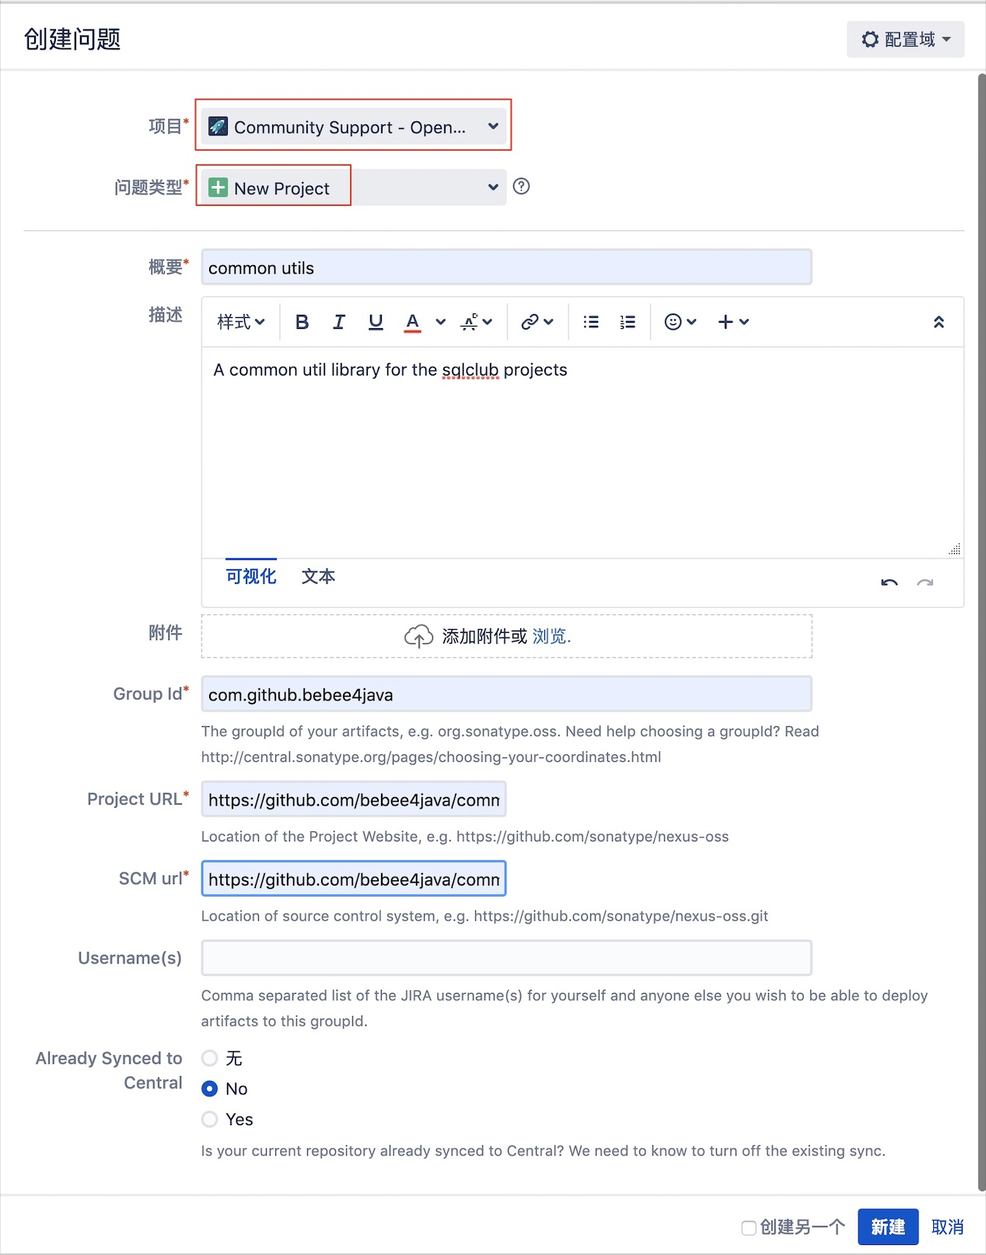
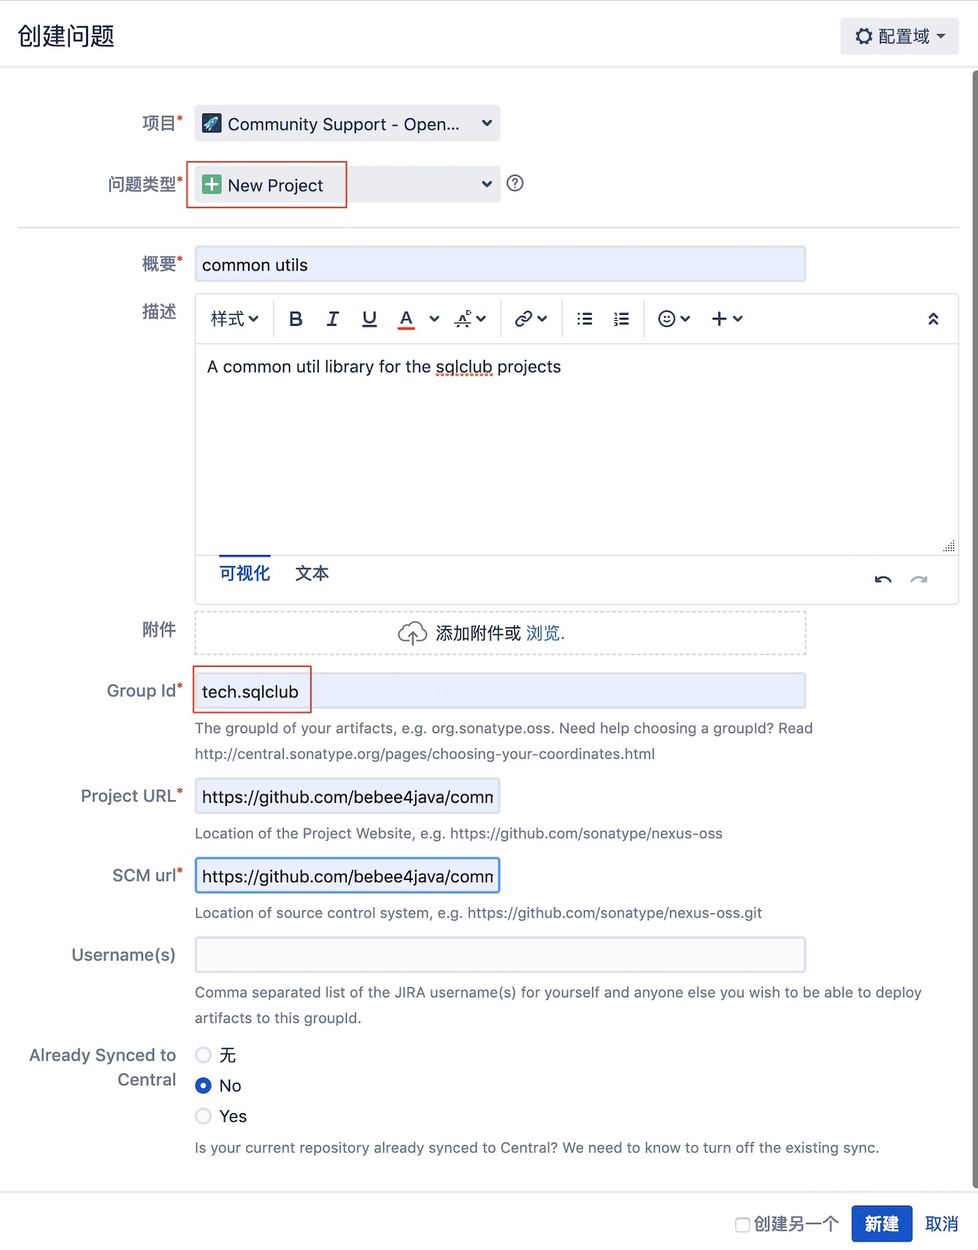
Site updated: 2019-12-30 22:23:57

diff --git a/2019/12/30/发布自己的项目JAR到MAVEN中央仓库/index.html b/2019/12/30/发布自己的项目JAR到MAVEN中央仓库/index.html
@@ -62,13 +62,20 @@
 <meta property="og:image" content="https://blogtech.top/2019/12/30/发布自己的项目JAR到MAVEN中央仓库/signup.png">
 <meta property="og:image" content="https://blogtech.top/2019/12/30/发布自己的项目JAR到MAVEN中央仓库/new_issue.png">
 <meta property="og:image" content="https://blogtech.top/2019/12/30/发布自己的项目JAR到MAVEN中央仓库/issue.png">
+<meta property="og:image" content="https://blogtech.top/2019/12/30/发布自己的项目JAR到MAVEN中央仓库/oss-domain.png">
+<meta property="og:image" content="https://blogtech.top/2019/12/30/发布自己的项目JAR到MAVEN中央仓库/dns.png">
+<meta property="og:image" content="https://blogtech.top/2019/12/30/发布自己的项目JAR到MAVEN中央仓库/domain-ok.png">
+<meta property="og:image" content="https://blogtech.top/2019/12/30/发布自己的项目JAR到MAVEN中央仓库/issue-ok.png">
 <meta property="og:image" content="https://blogtech.top/2019/12/30/发布自己的项目JAR到MAVEN中央仓库/gen-key.png">
 <meta property="og:image" content="https://blogtech.top/2019/12/30/发布自己的项目JAR到MAVEN中央仓库/passphase.png">
 <meta property="og:image" content="https://blogtech.top/2019/12/30/发布自己的项目JAR到MAVEN中央仓库/list_keys.png">
 <meta property="og:image" content="https://blogtech.top/2019/12/30/发布自己的项目JAR到MAVEN中央仓库/send-keys.png">
 <meta property="og:image" content="https://blogtech.top/2019/12/30/发布自己的项目JAR到MAVEN中央仓库/recv-keys-err.png">
 <meta property="og:image" content="https://blogtech.top/2019/12/30/发布自己的项目JAR到MAVEN中央仓库/recv-keys-ok.png">
-<meta property="og:updated_time" content="2019-12-30T09:20:22.676Z">
+<meta property="og:image" content="https://blogtech.top/2019/12/30/发布自己的项目JAR到MAVEN中央仓库/gpg-pass.png">
+<meta property="og:image" content="https://blogtech.top/2019/12/30/发布自己的项目JAR到MAVEN中央仓库/deploy-jar.png">
+<meta property="og:image" content="https://blogtech.top/2019/12/30/发布自己的项目JAR到MAVEN中央仓库/nexus-repo.png">
+<meta property="og:updated_time" content="2019-12-30T14:23:40.350Z">
 <meta name="twitter:card" content="summary">
 <meta name="twitter:title" content="发布自己的项目JAR到MAVEN中央仓库">
 <meta name="twitter:description" content="为什么写这篇文章&amp;emsp;&amp;emsp;maven是java世界最流行的构建工具，做java的程序员应该没少使用maven中央仓库中的各种jar包，方便解决了工作中很多问题，提高了编码效率。程序员界有个编程原则就是：不要重复造轮子，所以工作中时常会抽取出很多实用的工具类、包等等。但是咱们也不能总是只取不予，应该懂得奉献，当你写好了一个十分好用的jar包，想贡献出去给大家使用的时候，应该怎么做呢？方">
@@ -266,7 +273,7 @@
               <span class="post-meta-item-text">发表于</span>
               
 
-              <time title="创建时间：2019-12-30 11:53:50 / 修改时间：17:20:22" itemprop="dateCreated datePublished" datetime="2019-12-30T11:53:50+08:00">2019-12-30</time>
+              <time title="创建时间：2019-12-30 11:53:50 / 修改时间：22:23:40" itemprop="dateCreated datePublished" datetime="2019-12-30T11:53:50+08:00">2019-12-30</time>
             </span>
             <span class="post-meta-item">
               <span class="post-meta-item-icon">
@@ -293,14 +300,14 @@
                 <i class="fa fa-file-word-o"></i>
               </span>
                 <span class="post-meta-item-text">本文字数：</span>
-              <span>5.4k</span>
+              <span>6.3k</span>
             </span>
             <span class="post-meta-item" title="阅读时长">
               <span class="post-meta-item-icon">
                 <i class="fa fa-clock-o"></i>
               </span>
                 <span class="post-meta-item-text">阅读时长 &asymp;</span>
-              <span>5 分钟</span>
+              <span>6 分钟</span>
             </span>
 
         </div>
@@ -322,8 +329,14 @@
 </blockquote>
 <h3 id="登录Jira"><a href="#登录Jira" class="headerlink" title="登录Jira"></a>登录Jira</h3><p>注册完成后登陆: <a href="https://issues.sonatype.org/login.jsp" target="_blank" rel="noopener">https://issues.sonatype.org/login.jsp</a></p>
 <h3 id="创建一个-Issue"><a href="#创建一个-Issue" class="headerlink" title="创建一个 Issue"></a>创建一个 Issue</h3><blockquote>
-<p>通过【Create】按钮创建<br><img src="//blogtech.top/2019/12/30/发布自己的项目JAR到MAVEN中央仓库/new_issue.png" alt="new_issue"><br>Project选择【Community Support - Open Source Project Repository Hosting (OSSRH)】<br>Issue Type: 选择【New Project】<br>Summary和Description: 自己填,注意要用英文<br>Group Id: 这个必须要注意,如果你用的是GitHub,一定要是 com.github.你的github用户名,例如我的项目地址是:<a href="https://github.com/bebee4java/common-utils" target="_blank" rel="noopener">https://github.com/bebee4java/common-utils</a>, 那我的groupId就是com.github.bebee4java, 当然也可以使用 GitHub的Page的域名 io.github.你的github用户名. 如果你有自己的域名和项目地址也可以,官方人员会询问你是否有这个域名的所有权.在你项目的pom里一定要使用这个groupId,最好包路径也使用.<br>Project URL: 是你的项目地址<br>SCM url: 是你的项目git地址<br>Username(s): 可以不用填,这是能辅助你提交项目的合作人的帐号,前提是他也得在这个Jira注册<br>其他使用默认值就行了<br><img src="//blogtech.top/2019/12/30/发布自己的项目JAR到MAVEN中央仓库/issue.png" alt><br>创建好Issue后就等待官方回复吧。这个需要一段时间的等待，如果审批通过的话就会在你申请的邮件箱中收到通过的邮件。</p>
+<p>通过【Create】按钮创建<br><img src="//blogtech.top/2019/12/30/发布自己的项目JAR到MAVEN中央仓库/new_issue.png" alt="new_issue"><br>Project选择【Community Support - Open Source Project Repository Hosting (OSSRH)】<br>Issue Type: 选择【New Project】<br>Summary和Description: 自己填,注意要用英文<br>Group Id: 这个必须要注意,如果你用的是GitHub,一定要是 com.github.你的github用户名,例如我的项目地址是:<a href="https://github.com/bebee4java/common-utils" target="_blank" rel="noopener">https://github.com/bebee4java/common-utils</a>, 那我的groupId就是com.github.bebee4java, 当然也可以使用 GitHub的Page的域名 io.github.你的github用户名. 如果你有自己的域名和项目地址也可以,官方人员会询问你是否有这个域名的所有权.在你项目的pom里一定要使用这个groupId,最好包路径也使用.<br>Project URL: 是你的项目地址<br>SCM url: 是你的项目git地址<br>Username(s): 可以不用填,这是能辅助你提交项目的合作人的帐号,前提是他也得在这个Jira注册<br>其他使用默认值就行了<br><img src="//blogtech.top/2019/12/30/发布自己的项目JAR到MAVEN中央仓库/issue.png" alt><br>创建好Issue后就等待官方回复吧。这个需要一段时间的等待，运气好的话很快就会有工作人员回复你。</p>
 </blockquote>
+<p>这边我使用自己的域名作为项目的Group Id。然后工作人员给我回复了这么一个问题：<br><img src="//blogtech.top/2019/12/30/发布自己的项目JAR到MAVEN中央仓库/oss-domain.png" alt><br>Central OSSRH 问你，这个域名是你的么，怎么证明这个域名是你的呢？他给了你两种解决方法。</p>
+<ol>
+<li>在域名解析中加上一个Txt记录，指向你发布的这个Issues(他称作JIRA ticket:)。（最快）</li>
+<li>设置重定向到您的Github页面（如果尚不存在）</li>
+</ol>
+<p>所以，我选择了第一种方式，在dns里加条txt记录：<br><img src="//blogtech.top/2019/12/30/发布自己的项目JAR到MAVEN中央仓库/dns.png" alt><br>然后你就可以继续等待他的回复了……看到他给你这么回复：<br><img src="//blogtech.top/2019/12/30/发布自己的项目JAR到MAVEN中央仓库/domain-ok.png" alt><br>说明你的问题被解决了：<br><img src="//blogtech.top/2019/12/30/发布自己的项目JAR到MAVEN中央仓库/issue-ok.png" alt><br>审批通过在你申请的邮件箱中也会收到通过的邮件。</p>
 <h3 id="配置gpg加密jar包上传到构件仓库里面"><a href="#配置gpg加密jar包上传到构件仓库里面" class="headerlink" title="配置gpg加密jar包上传到构件仓库里面"></a>配置gpg加密jar包上传到构件仓库里面</h3><ol>
 <li>安装gpg: Mac直接在控制台<code>brew install gpg</code>即可.<blockquote>
 <p>Windows 系统，可以下载 Gpg4win 软件来生成密钥对。<br>下载地址：<a href="https://www.gpg4win.org/download.html" target="_blank" rel="noopener">https://www.gpg4win.org/download.html</a><br>查看是否安装成功: gpg —version</p>
@@ -343,6 +356,13 @@
 <p>注意：distributionManagement-&gt;repository-&gt;id 要和maven setting.xml 中的保持一致。</p>
 </blockquote>
 <h3 id="上传构件到OSS中"><a href="#上传构件到OSS中" class="headerlink" title="上传构件到OSS中"></a>上传构件到OSS中</h3><figure class="highlight bash"><table><tr><td class="gutter"><pre><span class="line">1</span><br></pre></td><td class="code"><pre><span class="line">mvn clean deploy -Prelease-sign-artifacts</span><br></pre></td></tr></table></figure>
+<blockquote>
+<p>如果出现错误：gpg: signing failed: Inappropriate ioctl for device<br>在~/.zshrc 文件里加入export GPG_TTY=$(tty)</p>
+</blockquote>
+<p>打包过程中会让你输入PGP的密码：<br><img src="//blogtech.top/2019/12/30/发布自己的项目JAR到MAVEN中央仓库/gpg-pass.png" alt><br>出现下面上传的信息，说明你已经可以正常将jar包部署到 OSS 中。<br><img src="//blogtech.top/2019/12/30/发布自己的项目JAR到MAVEN中央仓库/deploy-jar.png" alt><br>注意：此时上传的构件并未正式发布到中央仓库中，只是部署到 OSS 中了，别人还不能够使用。</p>
+<h3 id="在OSS中发布构建"><a href="#在OSS中发布构建" class="headerlink" title="在OSS中发布构建"></a>在OSS中发布构建</h3><p>地址：<a href="https://oss.sonatype.org/#stagingRepositories" target="_blank" rel="noopener">https://oss.sonatype.org/#stagingRepositories</a> 需要使用之前注册的sonatype账号登录。</p>
+<p>&emsp;&emsp;用你的SonaType的账号密码进行登陆后，点击左边的Staging Repositories然后根据所写的Group Id进行查询。如果在Staging Repositories中查找不到你的项目，但是在<a href="https://oss.sonatype.org/index.html" target="_blank" rel="noopener">Nexus公有库</a>中是可以查找到你的项目的话。那么这个问题可以忽略，因为这个是nexus-staging-maven-plugin插件中autoReleaseAfterClose自动设置为了True，所以就自动给close-&gt;release-&gt;drop三步，相当于自动给你做了。所以等待两个小时就会在中央仓库查找到了。<br><img src="//blogtech.top/2019/12/30/发布自己的项目JAR到MAVEN中央仓库/nexus-repo.png" alt></p>
+<h3 id="通知Sonatype构件已成功发布"><a href="#通知Sonatype构件已成功发布" class="headerlink" title="通知Sonatype构件已成功发布"></a>通知Sonatype构件已成功发布</h3><p>通知Sonatype构件已成功发布，在之前创建的Issue中回复一条<code>The component has been successfully released</code>通知工作人员为需要发布的构件做审批，发布后会关闭该Issue。</p>
 
     </div>
 
@@ -411,7 +431,7 @@
 
       <!--noindex-->
       <div class="post-toc-wrap sidebar-panel">
-          <div class="post-toc motion-element"><ol class="nav"><li class="nav-item nav-level-2"><a class="nav-link" href="#为什么写这篇文章"><span class="nav-number">1.</span> <span class="nav-text">为什么写这篇文章</span></a></li><li class="nav-item nav-level-2"><a class="nav-link" href="#发布到中央仓库的好处"><span class="nav-number">2.</span> <span class="nav-text">发布到中央仓库的好处</span></a></li><li class="nav-item nav-level-2"><a class="nav-link" href="#发布流程"><span class="nav-number">3.</span> <span class="nav-text">发布流程</span></a><ol class="nav-child"><li class="nav-item nav-level-3"><a class="nav-link" href="#注册-sonatype的Jira帐号"><span class="nav-number">3.1.</span> <span class="nav-text">注册 sonatype的Jira帐号</span></a></li><li class="nav-item nav-level-3"><a class="nav-link" href="#登录Jira"><span class="nav-number">3.2.</span> <span class="nav-text">登录Jira</span></a></li><li class="nav-item nav-level-3"><a class="nav-link" href="#创建一个-Issue"><span class="nav-number">3.3.</span> <span class="nav-text">创建一个 Issue</span></a></li><li class="nav-item nav-level-3"><a class="nav-link" href="#配置gpg加密jar包上传到构件仓库里面"><span class="nav-number">3.4.</span> <span class="nav-text">配置gpg加密jar包上传到构件仓库里面</span></a></li><li class="nav-item nav-level-3"><a class="nav-link" href="#配置maven-setting-xml"><span class="nav-number">3.5.</span> <span class="nav-text">配置maven setting.xml</span></a></li><li class="nav-item nav-level-3"><a class="nav-link" href="#配置项目pom-xml"><span class="nav-number">3.6.</span> <span class="nav-text">配置项目pom.xml</span></a></li><li class="nav-item nav-level-3"><a class="nav-link" href="#上传构件到OSS中"><span class="nav-number">3.7.</span> <span class="nav-text">上传构件到OSS中</span></a></li></ol></li></ol></div>
+          <div class="post-toc motion-element"><ol class="nav"><li class="nav-item nav-level-2"><a class="nav-link" href="#为什么写这篇文章"><span class="nav-number">1.</span> <span class="nav-text">为什么写这篇文章</span></a></li><li class="nav-item nav-level-2"><a class="nav-link" href="#发布到中央仓库的好处"><span class="nav-number">2.</span> <span class="nav-text">发布到中央仓库的好处</span></a></li><li class="nav-item nav-level-2"><a class="nav-link" href="#发布流程"><span class="nav-number">3.</span> <span class="nav-text">发布流程</span></a><ol class="nav-child"><li class="nav-item nav-level-3"><a class="nav-link" href="#注册-sonatype的Jira帐号"><span class="nav-number">3.1.</span> <span class="nav-text">注册 sonatype的Jira帐号</span></a></li><li class="nav-item nav-level-3"><a class="nav-link" href="#登录Jira"><span class="nav-number">3.2.</span> <span class="nav-text">登录Jira</span></a></li><li class="nav-item nav-level-3"><a class="nav-link" href="#创建一个-Issue"><span class="nav-number">3.3.</span> <span class="nav-text">创建一个 Issue</span></a></li><li class="nav-item nav-level-3"><a class="nav-link" href="#配置gpg加密jar包上传到构件仓库里面"><span class="nav-number">3.4.</span> <span class="nav-text">配置gpg加密jar包上传到构件仓库里面</span></a></li><li class="nav-item nav-level-3"><a class="nav-link" href="#配置maven-setting-xml"><span class="nav-number">3.5.</span> <span class="nav-text">配置maven setting.xml</span></a></li><li class="nav-item nav-level-3"><a class="nav-link" href="#配置项目pom-xml"><span class="nav-number">3.6.</span> <span class="nav-text">配置项目pom.xml</span></a></li><li class="nav-item nav-level-3"><a class="nav-link" href="#上传构件到OSS中"><span class="nav-number">3.7.</span> <span class="nav-text">上传构件到OSS中</span></a></li><li class="nav-item nav-level-3"><a class="nav-link" href="#在OSS中发布构建"><span class="nav-number">3.8.</span> <span class="nav-text">在OSS中发布构建</span></a></li><li class="nav-item nav-level-3"><a class="nav-link" href="#通知Sonatype构件已成功发布"><span class="nav-number">3.9.</span> <span class="nav-text">通知Sonatype构件已成功发布</span></a></li></ol></li></ol></div>
       </div>
       <!--/noindex-->
 
@@ -474,12 +494,12 @@
     <span class="post-meta-item-icon">
       <i class="fa fa-area-chart"></i>
     </span>
-    <span title="站点总字数">22k</span>
+    <span title="站点总字数">23k</span>
     <span class="post-meta-divider">|</span>
     <span class="post-meta-item-icon">
       <i class="fa fa-coffee"></i>
     </span>
-    <span title="站点阅读时长">20 分钟</span>
+    <span title="站点阅读时长">21 分钟</span>
 </div>
   <div class="powered-by">由 <a href="https://hexo.io" class="theme-link" rel="noopener" target="_blank">Hexo</a> 强力驱动 v3.9.0
   </div>

diff --git a/index.html b/index.html
@@ -256,7 +256,7 @@
               <span class="post-meta-item-text">发表于</span>
               
 
-              <time title="创建时间：2019-12-30 11:53:50 / 修改时间：17:20:22" itemprop="dateCreated datePublished" datetime="2019-12-30T11:53:50+08:00">2019-12-30</time>
+              <time title="创建时间：2019-12-30 11:53:50 / 修改时间：22:23:40" itemprop="dateCreated datePublished" datetime="2019-12-30T11:53:50+08:00">2019-12-30</time>
             </span>
             <span class="post-meta-item">
               <span class="post-meta-item-icon">
@@ -276,14 +276,14 @@
                 <i class="fa fa-file-word-o"></i>
               </span>
                 <span class="post-meta-item-text">本文字数：</span>
-              <span>5.4k</span>
+              <span>6.3k</span>
             </span>
             <span class="post-meta-item" title="阅读时长">
               <span class="post-meta-item-icon">
                 <i class="fa fa-clock-o"></i>
               </span>
                 <span class="post-meta-item-text">阅读时长 &asymp;</span>
-              <span>5 分钟</span>
+              <span>6 分钟</span>
             </span>
 
         </div>
@@ -1202,12 +1202,12 @@
     <span class="post-meta-item-icon">
       <i class="fa fa-area-chart"></i>
     </span>
-    <span title="站点总字数">22k</span>
+    <span title="站点总字数">23k</span>
     <span class="post-meta-divider">|</span>
     <span class="post-meta-item-icon">
       <i class="fa fa-coffee"></i>
     </span>
-    <span title="站点阅读时长">20 分钟</span>
+    <span title="站点阅读时长">21 分钟</span>
 </div>
   <div class="powered-by">由 <a href="https://hexo.io" class="theme-link" rel="noopener" target="_blank">Hexo</a> 强力驱动 v3.9.0
   </div>

diff --git a/2019/09/27/hello-world/index.html b/2019/09/27/hello-world/index.html
@@ -426,12 +426,12 @@
     <span class="post-meta-item-icon">
       <i class="fa fa-area-chart"></i>
     </span>
-    <span title="站点总字数">22k</span>
+    <span title="站点总字数">23k</span>
     <span class="post-meta-divider">|</span>
     <span class="post-meta-item-icon">
       <i class="fa fa-coffee"></i>
     </span>
-    <span title="站点阅读时长">20 分钟</span>
+    <span title="站点阅读时长">21 分钟</span>
 </div>
   <div class="powered-by">由 <a href="https://hexo.io" class="theme-link" rel="noopener" target="_blank">Hexo</a> 强力驱动 v3.9.0
   </div>

diff --git a/2019/10/07/docker常用操作及技巧/index.html b/2019/10/07/docker常用操作及技巧/index.html
@@ -547,12 +547,12 @@
     <span class="post-meta-item-icon">
       <i class="fa fa-area-chart"></i>
     </span>
-    <span title="站点总字数">22k</span>
+    <span title="站点总字数">23k</span>
     <span class="post-meta-divider">|</span>
     <span class="post-meta-item-icon">
       <i class="fa fa-coffee"></i>
     </span>
-    <span title="站点阅读时长">20 分钟</span>
+    <span title="站点阅读时长">21 分钟</span>
 </div>
   <div class="powered-by">由 <a href="https://hexo.io" class="theme-link" rel="noopener" target="_blank">Hexo</a> 强力驱动 v3.9.0
   </div>

diff --git a/2019/10/08/docker安装mysql搭建主从/index.html b/2019/10/08/docker安装mysql搭建主从/index.html
@@ -488,12 +488,12 @@
     <span class="post-meta-item-icon">
       <i class="fa fa-area-chart"></i>
     </span>
-    <span title="站点总字数">22k</span>
+    <span title="站点总字数">23k</span>
     <span class="post-meta-divider">|</span>
     <span class="post-meta-item-icon">
       <i class="fa fa-coffee"></i>
     </span>
-    <span title="站点阅读时长">20 分钟</span>
+    <span title="站点阅读时长">21 分钟</span>
 </div>
   <div class="powered-by">由 <a href="https://hexo.io" class="theme-link" rel="noopener" target="_blank">Hexo</a> 强力驱动 v3.9.0
   </div>

diff --git a/2019/10/09/mysql创建用户与授权/index.html b/2019/10/09/mysql创建用户与授权/index.html
@@ -464,12 +464,12 @@
     <span class="post-meta-item-icon">
       <i class="fa fa-area-chart"></i>
     </span>
-    <span title="站点总字数">22k</span>
+    <span title="站点总字数">23k</span>
     <span class="post-meta-divider">|</span>
     <span class="post-meta-item-icon">
       <i class="fa fa-coffee"></i>
     </span>
-    <span title="站点阅读时长">20 分钟</span>
+    <span title="站点阅读时长">21 分钟</span>
 </div>
   <div class="powered-by">由 <a href="https://hexo.io" class="theme-link" rel="noopener" target="_blank">Hexo</a> 强力驱动 v3.9.0
   </div>

diff --git a/2019/10/10/conda使用技巧总结/index.html b/2019/10/10/conda使用技巧总结/index.html
@@ -447,12 +447,12 @@
     <span class="post-meta-item-icon">
       <i class="fa fa-area-chart"></i>
     </span>
-    <span title="站点总字数">22k</span>
+    <span title="站点总字数">23k</span>
     <span class="post-meta-divider">|</span>
     <span class="post-meta-item-icon">
       <i class="fa fa-coffee"></i>
     </span>
-    <span title="站点阅读时长">20 分钟</span>
+    <span title="站点阅读时长">21 分钟</span>
 </div>
   <div class="powered-by">由 <a href="https://hexo.io" class="theme-link" rel="noopener" target="_blank">Hexo</a> 强力驱动 v3.9.0
   </div>

diff --git a/2019/10/11/Java设计模式剖析/index.html b/2019/10/11/Java设计模式剖析/index.html
@@ -494,12 +494,12 @@
     <span class="post-meta-item-icon">
       <i class="fa fa-area-chart"></i>
     </span>
-    <span title="站点总字数">22k</span>
+    <span title="站点总字数">23k</span>
     <span class="post-meta-divider">|</span>
     <span class="post-meta-item-icon">
       <i class="fa fa-coffee"></i>
     </span>
-    <span title="站点阅读时长">20 分钟</span>
+    <span title="站点阅读时长">21 分钟</span>
 </div>
   <div class="powered-by">由 <a href="https://hexo.io" class="theme-link" rel="noopener" target="_blank">Hexo</a> 强力驱动 v3.9.0
   </div>

diff --git a/2019/10/17/Java设计模式-单例模式/index.html b/2019/10/17/Java设计模式-单例模式/index.html
@@ -542,12 +542,12 @@
     <span class="post-meta-item-icon">
       <i class="fa fa-area-chart"></i>
     </span>
-    <span title="站点总字数">22k</span>
+    <span title="站点总字数">23k</span>
     <span class="post-meta-divider">|</span>
     <span class="post-meta-item-icon">
       <i class="fa fa-coffee"></i>
     </span>
-    <span title="站点阅读时长">20 分钟</span>
+    <span title="站点阅读时长">21 分钟</span>
 </div>
   <div class="powered-by">由 <a href="https://hexo.io" class="theme-link" rel="noopener" target="_blank">Hexo</a> 强力驱动 v3.9.0
   </div>

diff --git a/2019/10/22/Java设计模式-策略模式/index.html b/2019/10/22/Java设计模式-策略模式/index.html
@@ -436,12 +436,12 @@
     <span class="post-meta-item-icon">
       <i class="fa fa-area-chart"></i>
     </span>
-    <span title="站点总字数">22k</span>
+    <span title="站点总字数">23k</span>
     <span class="post-meta-divider">|</span>
     <span class="post-meta-item-icon">
       <i class="fa fa-coffee"></i>
     </span>
-    <span title="站点阅读时长">20 分钟</span>
+    <span title="站点阅读时长">21 分钟</span>
 </div>
   <div class="powered-by">由 <a href="https://hexo.io" class="theme-link" rel="noopener" target="_blank">Hexo</a> 强力驱动 v3.9.0
   </div>

diff --git a/404.html b/404.html
@@ -363,12 +363,12 @@
     <span class="post-meta-item-icon">
       <i class="fa fa-area-chart"></i>
     </span>
-    <span title="站点总字数">22k</span>
+    <span title="站点总字数">23k</span>
     <span class="post-meta-divider">|</span>
     <span class="post-meta-item-icon">
       <i class="fa fa-coffee"></i>
     </span>
-    <span title="站点阅读时长">20 分钟</span>
+    <span title="站点阅读时长">21 分钟</span>
 </div>
   <div class="powered-by">由 <a href="https://hexo.io" class="theme-link" rel="noopener" target="_blank">Hexo</a> 强力驱动 v3.9.0
   </div>

diff --git a/archives/2019/09/index.html b/archives/2019/09/index.html
@@ -359,12 +359,12 @@
     <span class="post-meta-item-icon">
       <i class="fa fa-area-chart"></i>
     </span>
-    <span title="站点总字数">22k</span>
+    <span title="站点总字数">23k</span>
     <span class="post-meta-divider">|</span>
     <span class="post-meta-item-icon">
       <i class="fa fa-coffee"></i>
     </span>
-    <span title="站点阅读时长">20 分钟</span>
+    <span title="站点阅读时长">21 分钟</span>
 </div>
   <div class="powered-by">由 <a href="https://hexo.io" class="theme-link" rel="noopener" target="_blank">Hexo</a> 强力驱动 v3.9.0
   </div>
